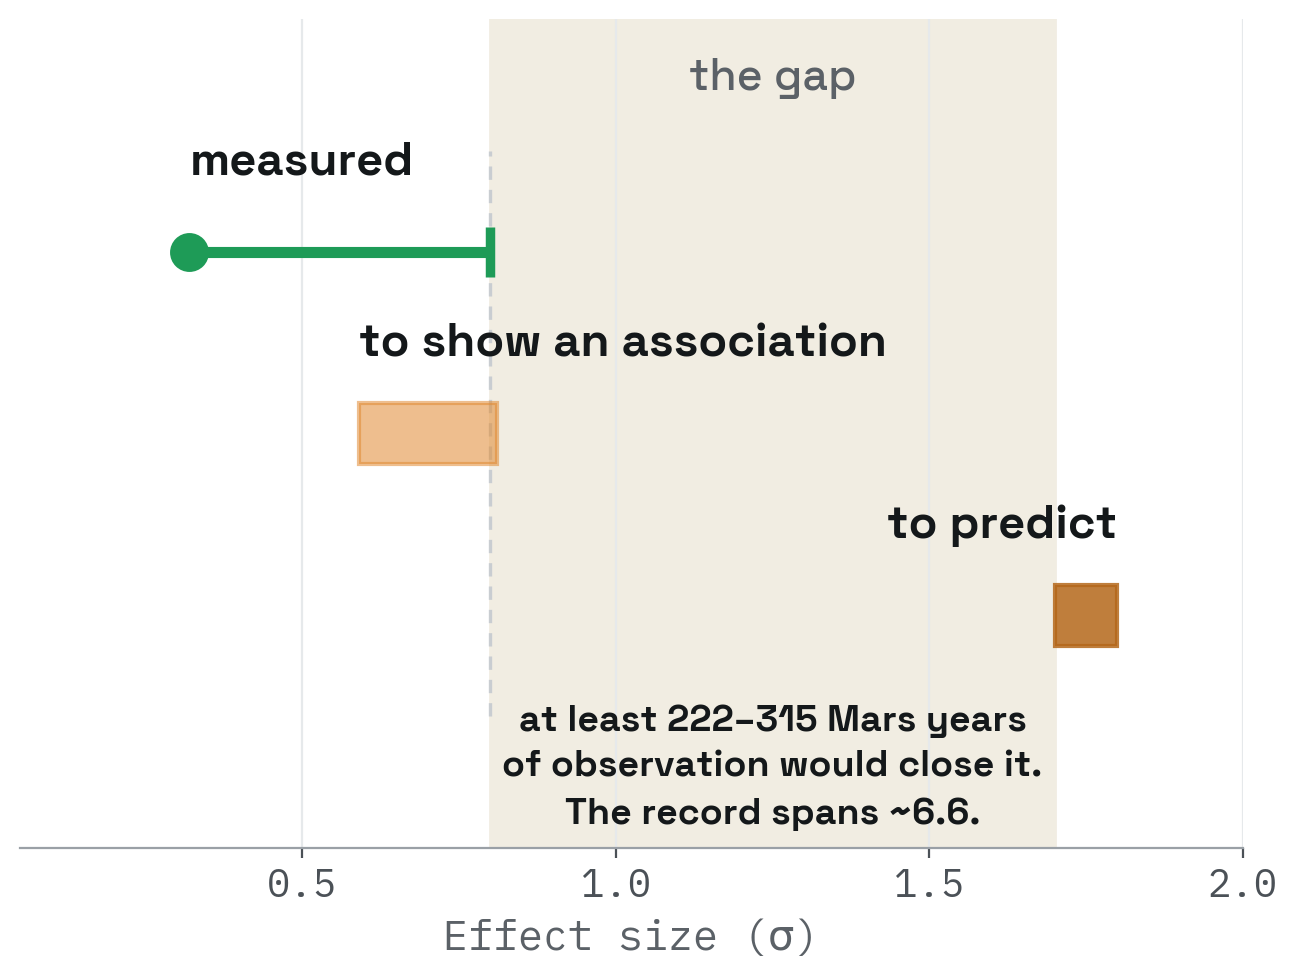
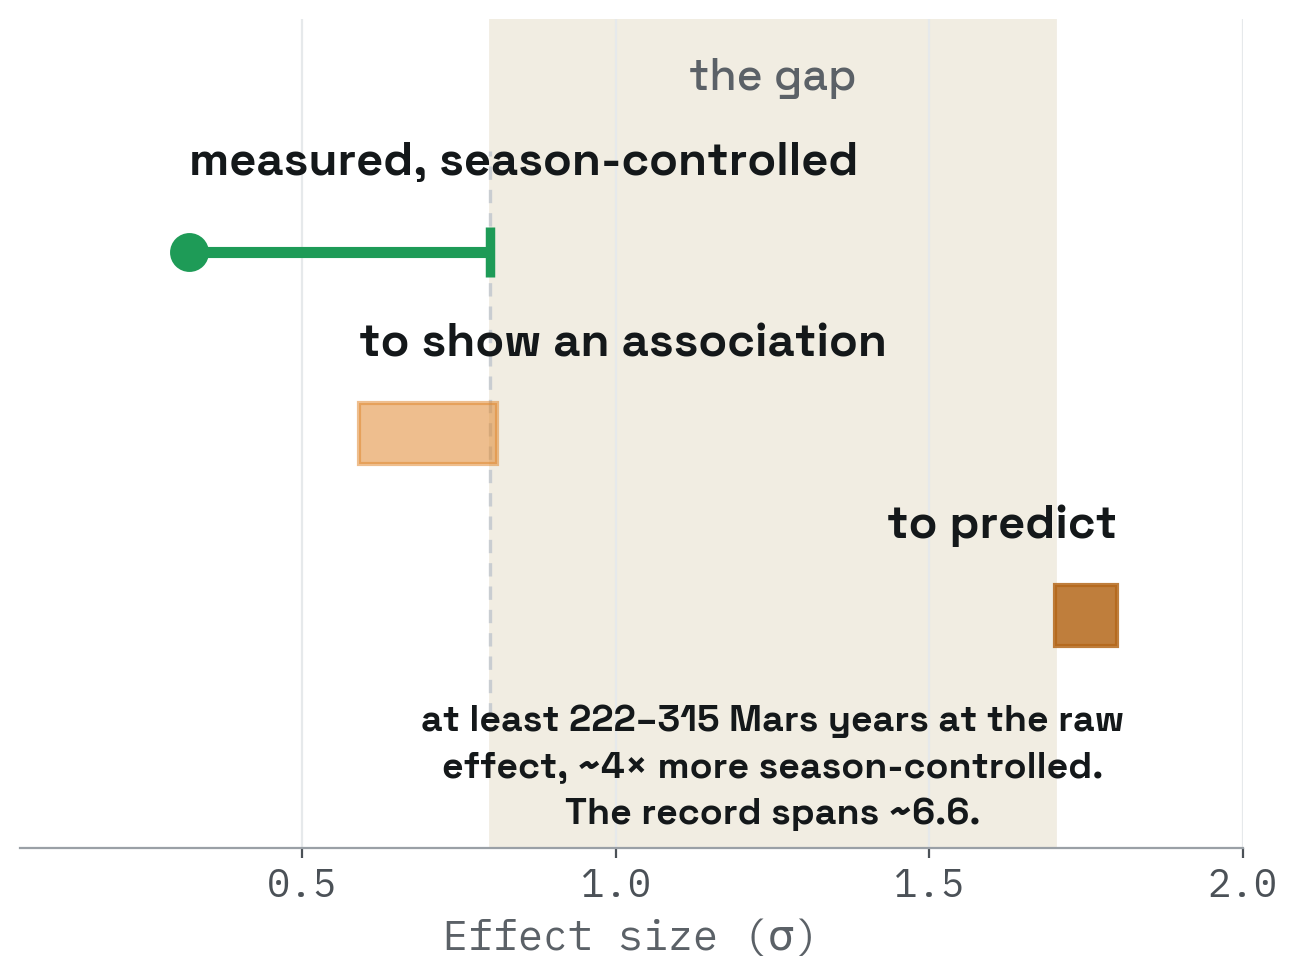
Align site with current manuscripts; arrow in split heading
JGR crack-junction paper: current title; resubmission dates in the
caveat; "suggests" and class wording from the paper's plain-language
summary. Dust storm: growth line restored to the licensed pitch;
222-315 MY bound to the raw 0.56 sigma effect with the season-controlled
and association tiers; pre-registration scoped to runs after 2026-08-03;
leak described relative to forecast time; floor scoping corrected;
figures relabeled. Ledger path corrected in CLAUDE.md and MAINTENANCE.md.

Changed region(s): [[0.3084, 0.7062, 0.8635, 0.7984], [0.3392, 0.1535, 0.6785, 0.1842], [0.1542, 0.1535, 0.185, 0.1842]]

diff --git a/theme.scss b/theme.scss
@@ -764,10 +764,11 @@ main.content {
 }
 .card h3.split-head .sep {
   color: var(--miss-d);
-  letter-spacing: 0.22em;
-  font-weight: 400;
-  position: relative;
-  top: -0.1em;
+  line-height: 1;
+}
+.card h3.split-head .sep svg {
+  display: inline-block;
+  vertical-align: -0.12em;
 }
 
 @media (max-width: 640px) {

diff --git a/tools/storm_figure.py b/tools/storm_figure.py
@@ -1,7 +1,7 @@
 """
 Predictability-gap figure, v3 — site-native styling.
-Numbers unchanged from the published result text:
-    measured 0.32 sigma; one-sided 95% upper limit 0.80
+Numbers from ~/research/LICENSED_NUMBERS.md:
+    largest season-controlled 0.32 sigma; one-sided 95% upper limit 0.80
     association floor 0.59-0.81; detection floor (80% power) 1.7-1.8
 Site palette: green #3FD07C, orange #E08A32, ink #14181A, cream #F4F1E9.
 Fonts: Space Grotesk (labels), IBM Plex Mono (numbers/axis) — the site's own.
@@ -36,7 +36,7 @@ ax.axvspan(0.80, 1.70, color=CREAM, zorder=0)
 ax.text(1.25, 2.72, "the gap between what the record shows\nand what prediction would require",
         color=GREY, fontsize=10.5, ha="center", va="center",
         family=GRO, style="italic")
-ax.text(1.25, -0.62, "Closing it: at least\n222\u2013315 Mars years of observation.\nThe record spans ~6.6.",
+ax.text(1.25, -0.62, "Closing it: at least 222\u2013315 Mars years\neven at the raw 0.56\u03c3 effect; ~4\u00d7 more\nseason-controlled. The record spans ~6.6.",
         color=INK, fontsize=10.5, ha="center", va="center",
         family=GRO, fontweight="bold", linespacing=1.45)
 
@@ -48,11 +48,11 @@ ax.plot([0.80, 0.80], [Y_D - 0.50, Y_M + 0.45], color=FAINT, lw=1.0,
 ax.plot([0.32, 0.80], [Y_M, Y_M], color=GREEN_D, lw=2.6, solid_capstyle="butt", zorder=4)
 ax.plot([0.32], [Y_M], marker="o", ms=10, color=GREEN_D, zorder=5)
 ax.plot([0.80], [Y_M], marker="|", ms=14, mew=2.6, color=GREEN_D, zorder=5)
-ax.text(0.56, Y_M + 0.30, "Largest measured effect", color=INK, fontsize=11.5,
+ax.text(0.56, Y_M + 0.30, "Largest season-controlled effect", color=INK, fontsize=11.5,
         va="bottom", ha="center", family=GRO, fontweight="bold")
 ax.text(0.32, Y_M - 0.32, "0.32\u03c3", color=GREEN_D, fontsize=11.5, va="top",
         ha="center", family=MONO, fontweight="medium")
-ax.text(0.86, Y_M - 0.30, "0.80\u03c3 \u00b7 95% limit", color=GREY, fontsize=9.5,
+ax.text(0.86, Y_M - 0.30, "0.80\u03c3 \u00b7 one-sided 95% limit", color=GREY, fontsize=9.5,
         va="top", ha="left", family=MONO)
 
 # --- floors (site orange: the requirement) ------------------------------

diff --git a/tools/storm_card.py b/tools/storm_card.py
@@ -27,7 +27,7 @@ ax.plot([0.80, 0.80], [Y_D - 0.5, Y_M + 0.5], color=FAINT, lw=1.2,
 ax.plot([0.32, 0.80], [Y_M, Y_M], color=GREEN_D, lw=4.0, solid_capstyle="butt", zorder=4)
 ax.plot([0.32], [Y_M], marker="o", ms=13, color=GREEN_D, zorder=5)
 ax.plot([0.80], [Y_M], marker="|", ms=18, mew=3.4, color=GREEN_D, zorder=5)
-ax.text(0.32, Y_M + 0.34, "measured", color=INK, fontsize=17,
+ax.text(0.32, Y_M + 0.34, "measured, season-controlled", color=INK, fontsize=17,
         va="bottom", ha="left", family=GRO, fontweight="bold")
 
 ax.add_patch(Rectangle((0.59, Y_A - BH/2), 0.22, BH, facecolor=ORANGE,
@@ -42,7 +42,7 @@ ax.text(1.80, Y_D + 0.34, "to predict", color=INK, fontsize=17,
 
 ax.text(1.25, 2.86, "the gap", color=GREY, fontsize=16, ha="center",
         va="center", family=GRO, style="italic")
-ax.text(1.25, -0.55, "at least 222\u2013315 Mars years\nof observation would close it.\nThe record spans ~6.6.",
+ax.text(1.25, -0.55, "at least 222\u2013315 Mars years at the raw\neffect, ~4\u00d7 more season-controlled.\nThe record spans ~6.6.",
         color=INK, fontsize=13.5, ha="center", va="center",
         family=GRO, fontweight="bold", linespacing=1.5)
 

diff --git a/CLAUDE.md b/CLAUDE.md
@@ -10,7 +10,7 @@ Three things that matter most:
 1. **`rm -rf _site` before publishing.** Stale build output has put deleted
    draft pages on the live site.
 2. **Numbers about the dust storm project come only from
-   `~/Downloads/mars-dust-storm/LICENSED_NUMBERS.md`.** Not from memory,
+   `~/research/LICENSED_NUMBERS.md`.** Not from memory,
    not from a conversation, not from an older version of the site. A
    retired figure reached the live site by traveling through chat.
 3. **Don't "fix" the deliberate choices.** The broad headline, the withheld

diff --git a/MAINTENANCE.md b/MAINTENANCE.md
@@ -43,7 +43,7 @@ grep -rn "REPLACE\|TODO\|FIXME" *.qmd *.yml
 ## Numbers
 
 Every number about the dust storm project comes from
-`~/Downloads/mars-dust-storm/LICENSED_NUMBERS.md` and nowhere else. Not
+`~/research/LICENSED_NUMBERS.md` and nowhere else. Not
 from memory, not from a chat, not from an older version of this site. A
 retired figure reached both a slide and this site by traveling through
 conversation instead of the ledger. Numbers travel with their riders or
